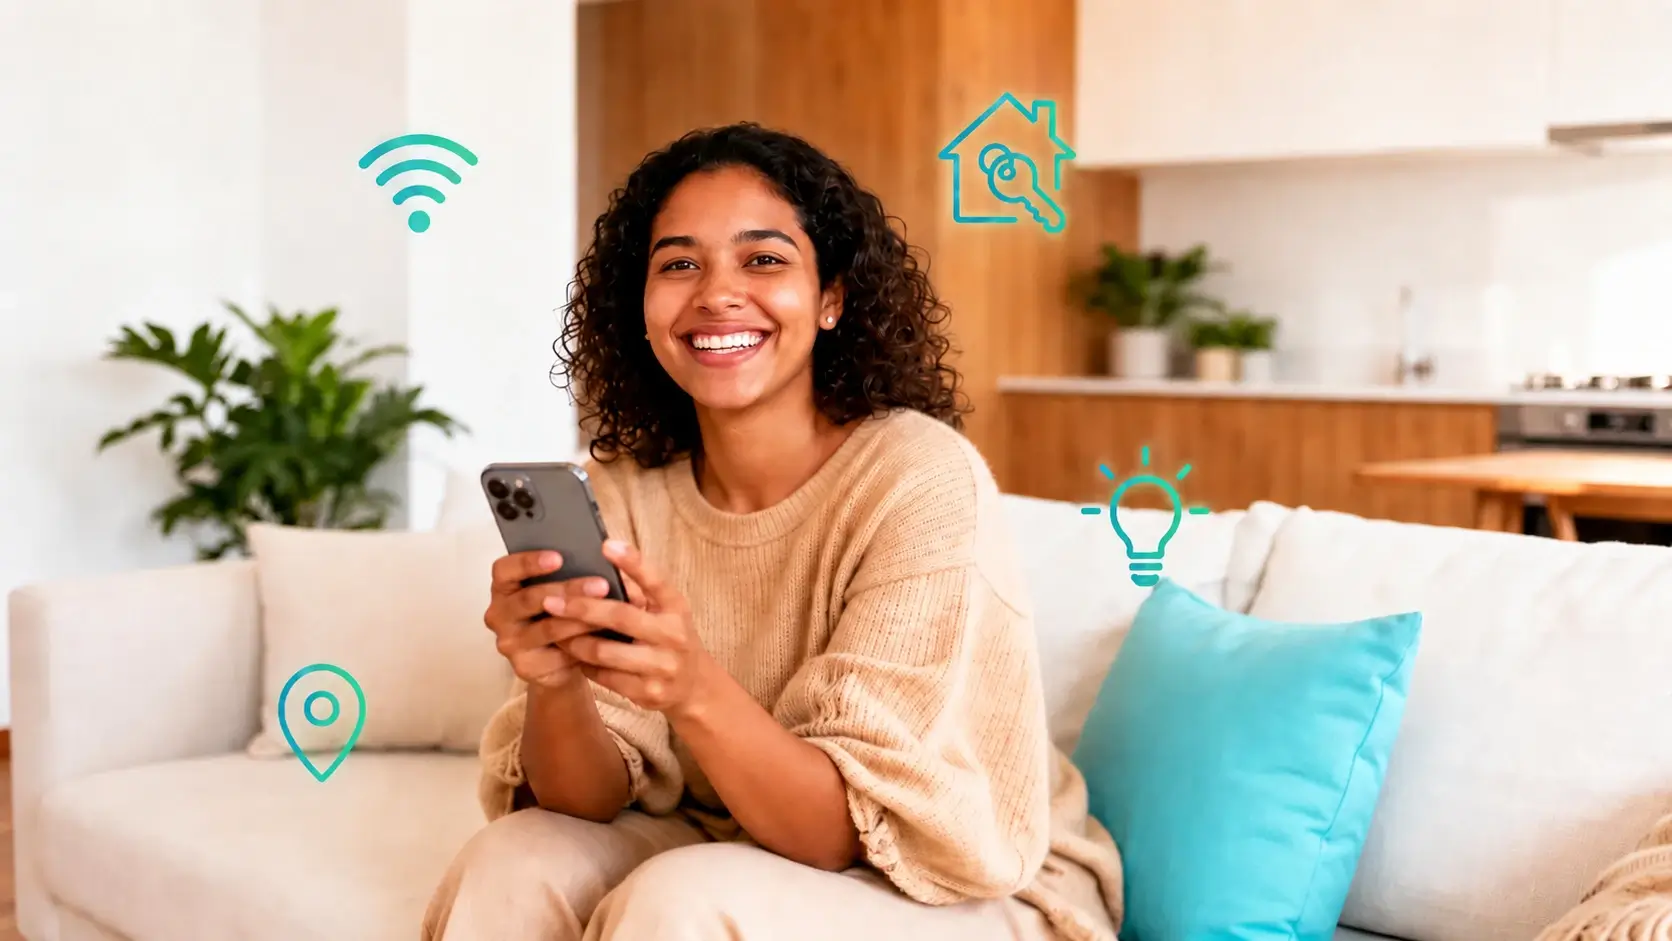
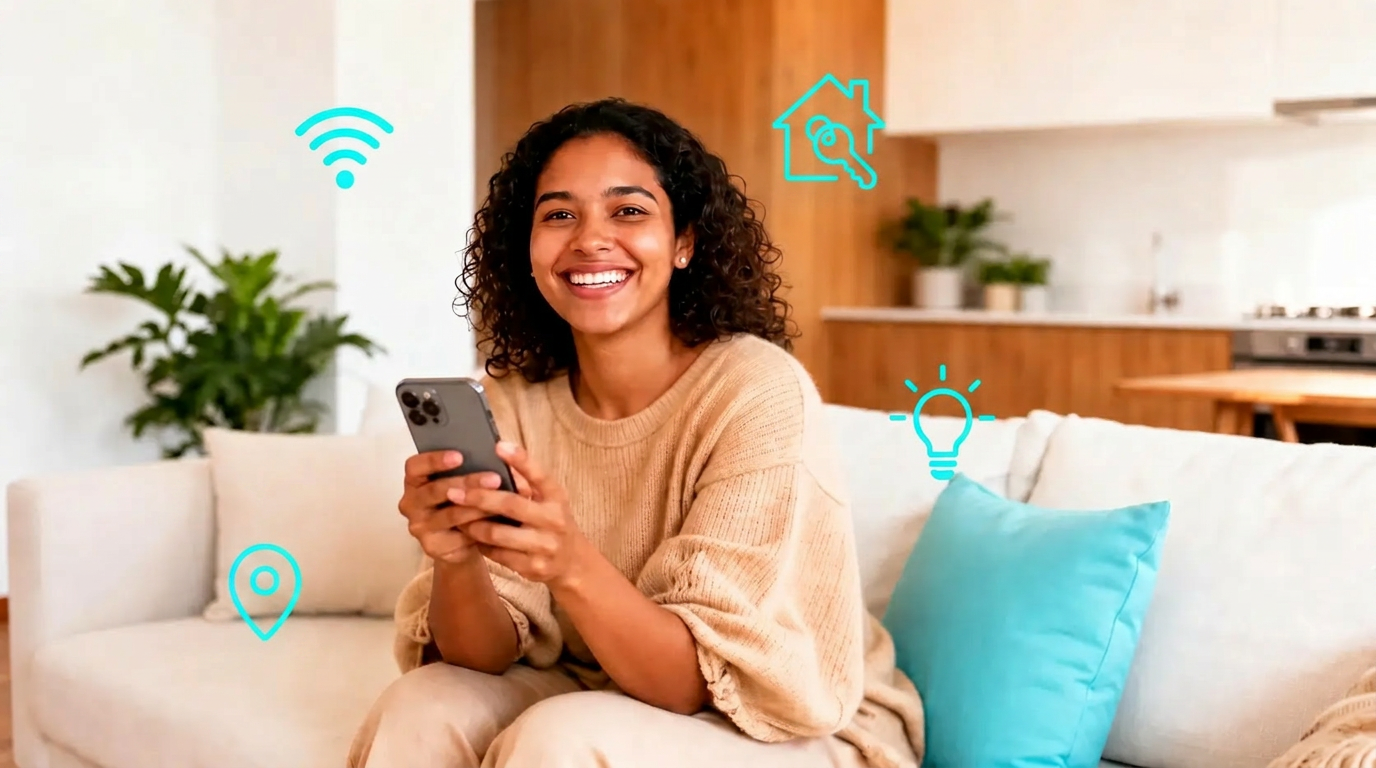
Changes

diff --git a/.lovable/plan.md b/.lovable/plan.md
@@ -1,24 +1,23 @@
-## Diagnóstico
+## Objetivo
 
-A rota `/` (home) renderiza `src/pages/LpAnuncio.tsx`, **não** `src/pages/Index.tsx` (que está em `/welcome-hub`). Por isso a seção Planos adicionada anteriormente não aparece — ela foi inserida no arquivo errado.
+Recolorir apenas os 4 ícones sobrepostos (wifi, casa+chave, lâmpada, pin de localização) da imagem hero de `/` para `#00FFFF` (ciano puro), preservando integralmente a foto da hóspede e do ambiente.
 
-## Plano
+## Passos
 
-1. **Remover** a `PlanosSection` (e constantes `LP_PLANS`, `LP_PLAN_FEATURES`, `ENTERPRISE_BENEFITS`, `formatBRL`, `CYAN`, `ENTERPRISE_WHATSAPP`) de `src/pages/Index.tsx`, restaurando o arquivo ao estado anterior.
+1. Usar `imagegen--edit_image` sobre `src/assets/lp/hero-guest-phone.webp` (a imagem atual da hero) com prompt instruindo:
+   - Recolorir somente os 4 ícones vetoriais sobrepostos (wifi top-left, casa-com-chave top-right, lâmpada center-right, pin bottom-left) para ciano sólido `#00FFFF`.
+   - Manter o estilo line/outline original, a posição, o tamanho e o leve gradiente — apenas trocar o teal/turquesa atual por #00FFFF.
+   - Preservar 100% a fotografia (rosto, sofá, cozinha, almofada, planta) sem retoques.
+2. Salvar o resultado em `src/assets/lp/hero-guest-phone.webp` (sobrescrevendo), aspect ratio `16:9` para manter o enquadramento atual (1672×941 ≈ 16:9).
+3. Validar visualmente abrindo a imagem gerada antes de finalizar; se algum ícone ficar fora do tom ou a foto for alterada, reiterar com prompt mais específico ou versionar como `hero-guest-phone-v2.webp` e atualizar o import.
 
-2. **Adicionar** a mesma `PlanosSection` em `src/pages/LpAnuncio.tsx`:
-   - Inserir `<PlanosSection />` no JSX principal entre `<BulletsPro />` e `<Gatilhos />` (posição natural: depois dos benefícios e antes dos gatilhos finais).
-   - Copiar para o final do arquivo o componente `PlanosSection` e as constantes auxiliares (`LP_PLANS`, `LP_PLAN_FEATURES`, `ENTERPRISE_BENEFITS`, `formatBRL`, `CYAN`, `ENTERPRISE_WHATSAPP`).
-   - Adicionar imports necessários: `useState`, `Tabs`, `TabsList`, `TabsTrigger`, `Badge`, `Card`, ícones `Sparkles`, `Check`, `Building2`, `Gift`, `MessageCircle`, `Headphones`, `Rocket`, `Settings as SettingsIcon`, `TrendingUp` (mantendo os já existentes).
+## Escopo / não-escopo
 
-3. **Conteúdo da seção** (idêntico ao já criado):
-   - Título: "Mais paz para você. Mais clareza para o hóspede. Por menos que um cafezinho por imóvel."
-   - Subtítulo: "Comece com 30 dias grátis, sem cartão de crédito. Teste sem compromisso e continue apenas se fizer sentido para sua operação."
-   - Toggle Mensal/Anual (−17%), 5 planos (Single, Starter, Pro, Business, Enterprise), CTAs para `/auth` e WhatsApp Enterprise.
-   - `id="planos"` para anchor.
+- Sem mudanças em `LpAnuncio.tsx` (mesmo path de import, mesmas dimensões 1672×941).
+- Sem alteração de CSS/filtros globais — a recoloração fica embutida no asset.
+- Não mexer no mockup secundário (`hero-mockup-lifestyle.webp`).
 
-## Escopo
+## Riscos
 
-- Arquivos alterados: `src/pages/Index.tsx` (remoção) e `src/pages/LpAnuncio.tsx` (adição).
-- Sem mudanças em rotas, backend, RLS ou outros componentes.
-- Não inclui adicionar "Planos" ao header (não foi pedido nesta mensagem).
+- Modelos de edição podem alterar levemente o rosto/iluminação. Mitigação: prompt explícito de preservação + comparação visual; se necessário, gerar 2 variações e escolher a mais fiel.
+- `#00FFFF` puro pode parecer berrante sobre o fundo claro; se o resultado destoar da identidade visual, podemos ajustar para `#00E5FF` ou aplicar leve gradiente — confirmar após ver o resultado.
